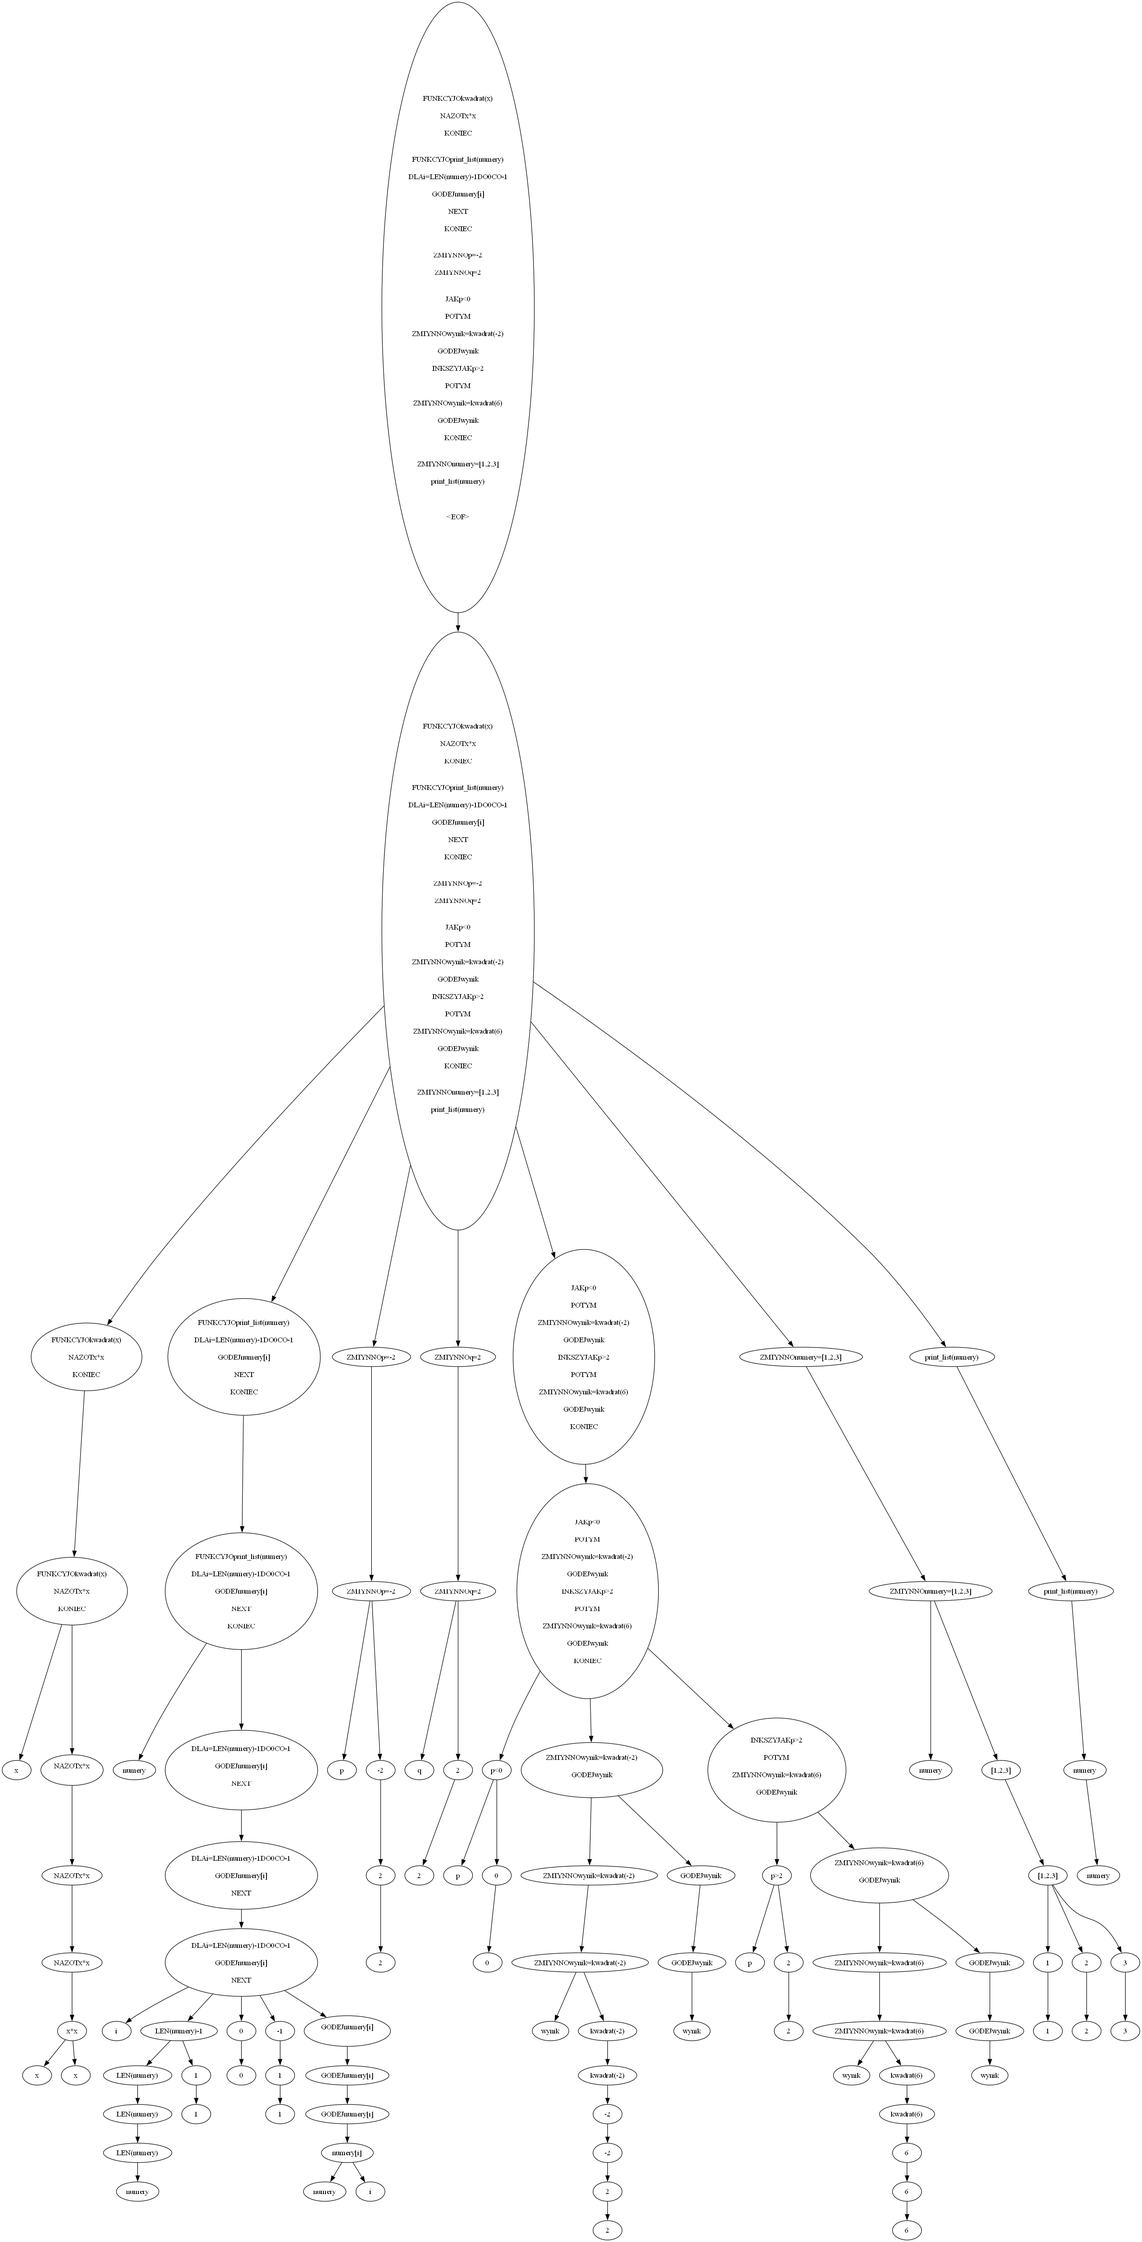
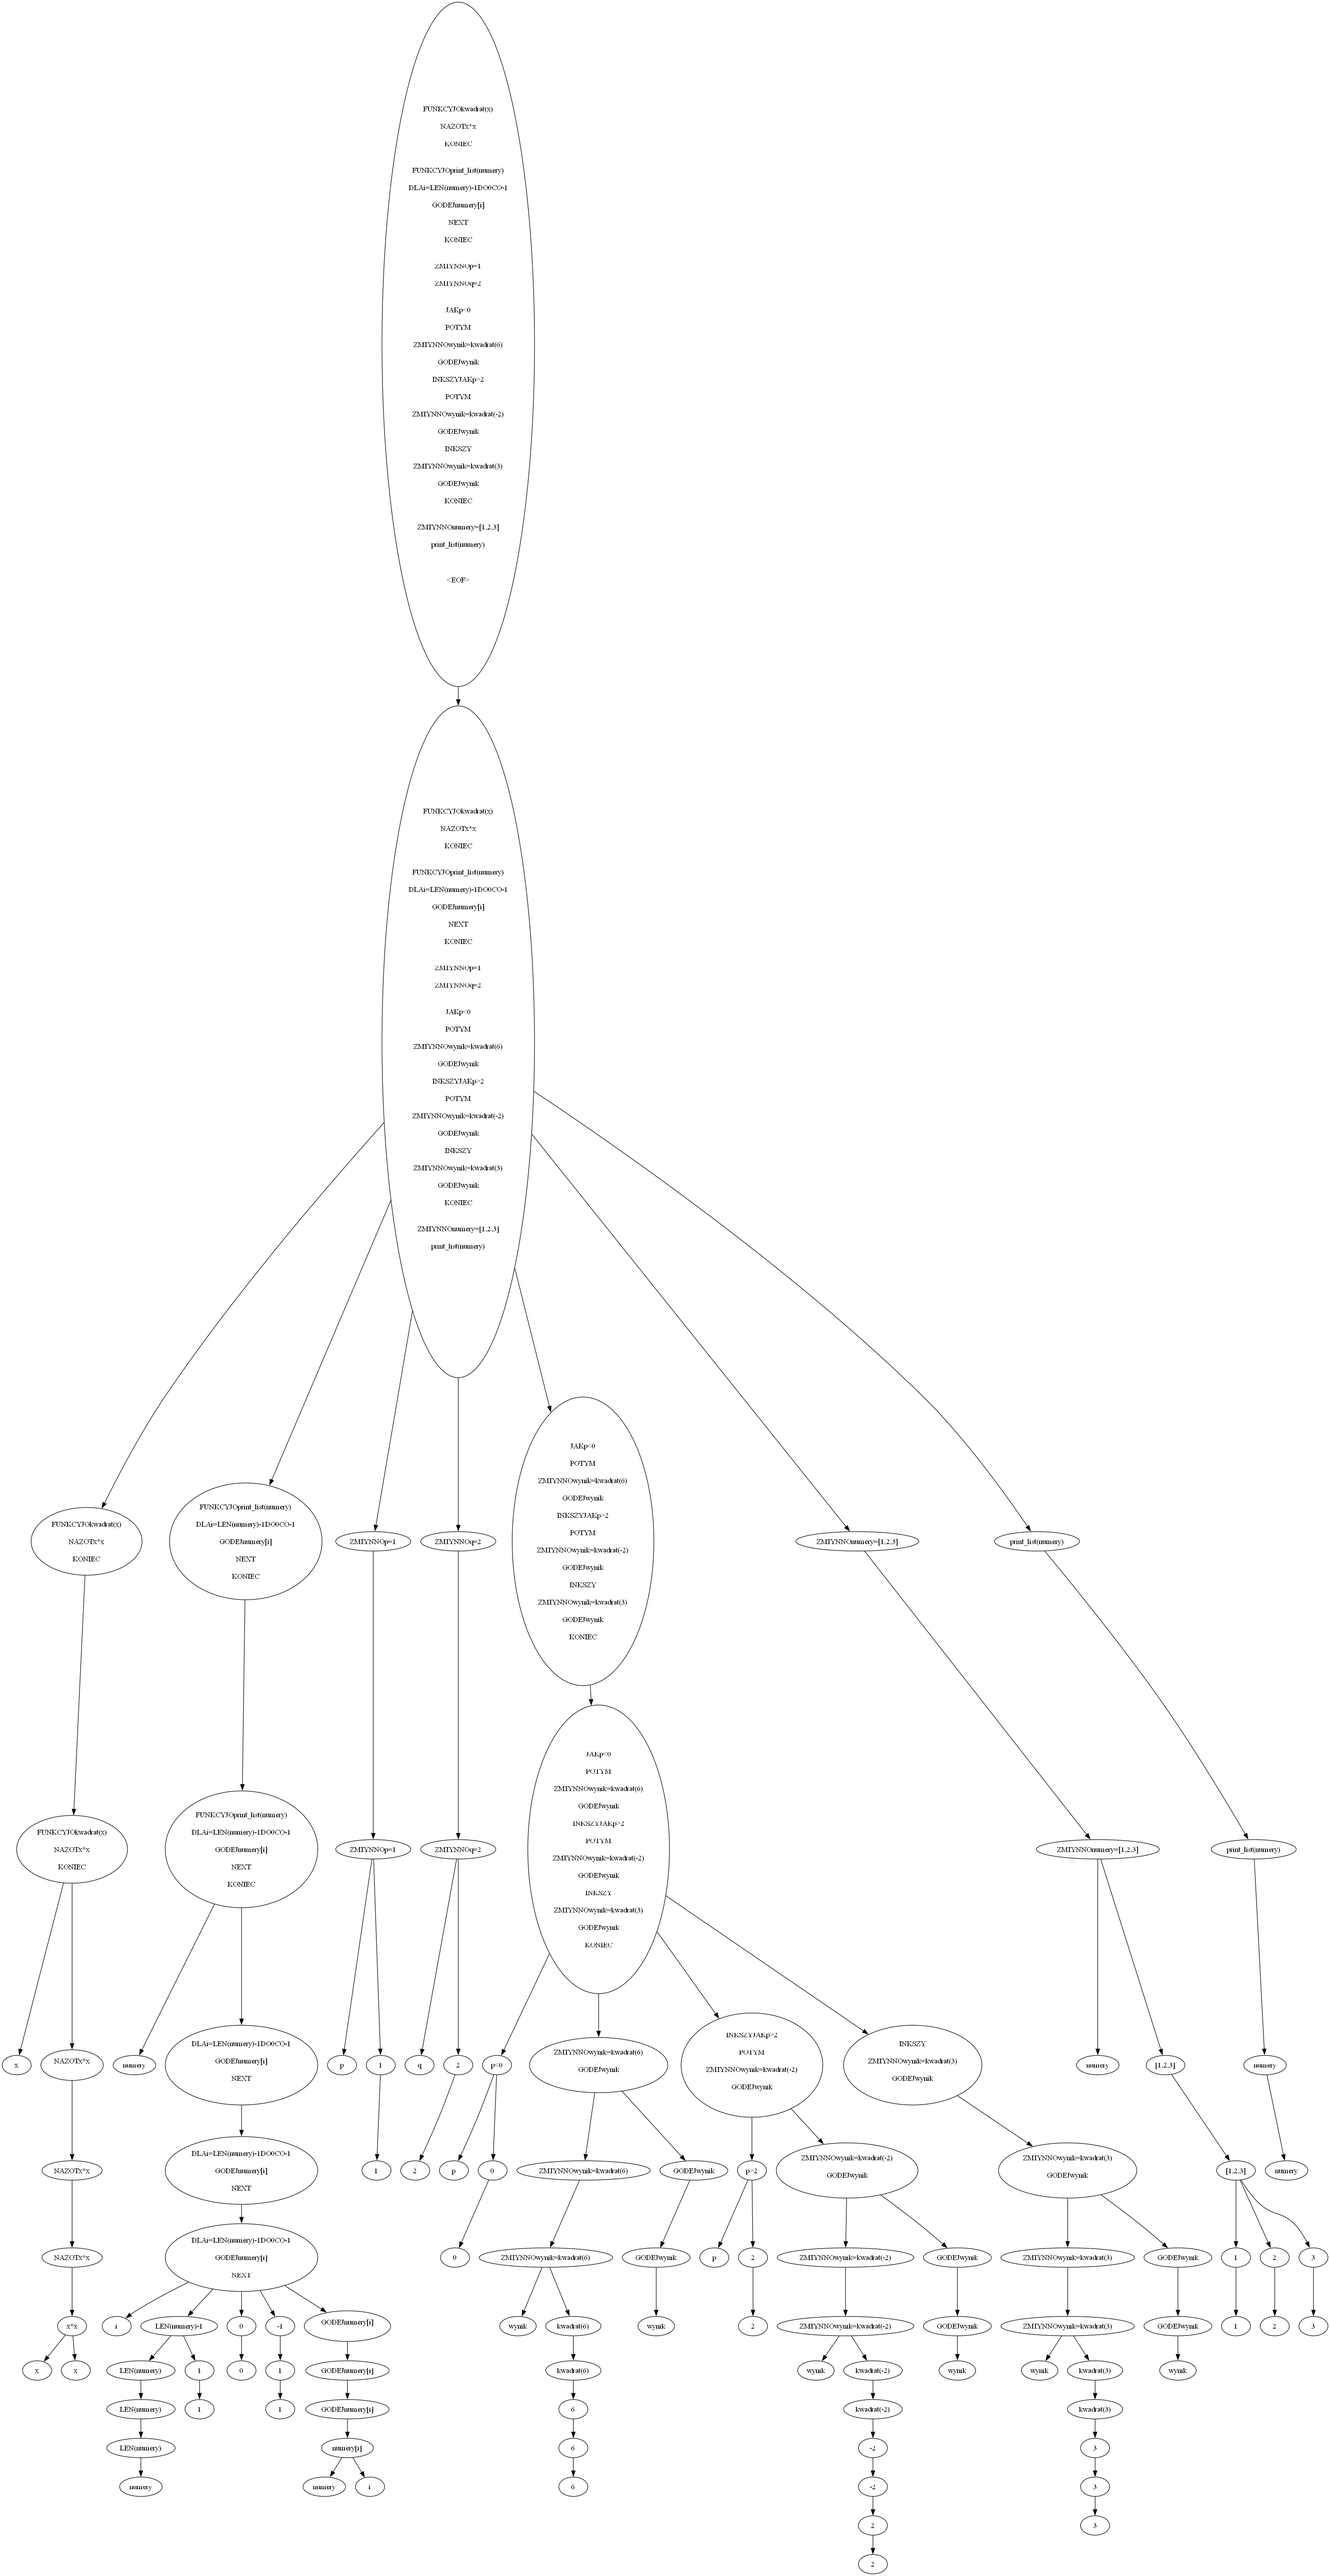
corrected relational -> rel. Now working fine

diff --git a/gen/Szprajch/SzprajchParser.py b/gen/Szprajch/SzprajchParser.py
@@ -43,7 +43,7 @@ def serializedATN():
         10,28,12,28,362,9,28,1,29,1,29,1,29,1,29,1,29,1,30,1,30,1,30,1,30,
         1,30,1,31,1,31,1,31,1,31,1,31,1,31,0,1,44,32,0,2,4,6,8,10,12,14,
         16,18,20,22,24,26,28,30,32,34,36,38,40,42,44,46,48,50,52,54,56,58,
-        60,62,0,3,2,0,1,2,6,6,1,0,3,4,1,0,7,12,418,0,64,1,0,0,0,2,77,1,0,
+        60,62,0,3,1,0,7,12,2,0,1,2,6,6,1,0,3,4,418,0,64,1,0,0,0,2,77,1,0,
         0,0,4,90,1,0,0,0,6,94,1,0,0,0,8,100,1,0,0,0,10,102,1,0,0,0,12,105,
         1,0,0,0,14,109,1,0,0,0,16,135,1,0,0,0,18,152,1,0,0,0,20,160,1,0,
         0,0,22,178,1,0,0,0,24,188,1,0,0,0,26,204,1,0,0,0,28,206,1,0,0,0,
@@ -2748,7 +2748,7 @@ class SzprajchParser ( Parser ):
                     self._errHandler.sync(self)
                     la_ = self._interp.adaptivePredict(self._input,27,self._ctx)
                     if la_ == 1:
-                        localctx = SzprajchParser.MulDivExprContext(self, SzprajchParser.ExpressionContext(self, _parentctx, _parentState))
+                        localctx = SzprajchParser.RelExprContext(self, SzprajchParser.ExpressionContext(self, _parentctx, _parentState))
                         self.pushNewRecursionContext(localctx, _startState, self.RULE_expression)
                         self.state = 298
                         if not self.precpred(self._ctx, 9):
@@ -2757,7 +2757,7 @@ class SzprajchParser ( Parser ):
                         self.state = 299
                         localctx.op = self._input.LT(1)
                         _la = self._input.LA(1)
-                        if not((((_la) & ~0x3f) == 0 and ((1 << _la) & 70) != 0)):
+                        if not((((_la) & ~0x3f) == 0 and ((1 << _la) & 8064) != 0)):
                             localctx.op = self._errHandler.recoverInline(self)
                         else:
                             self._errHandler.reportMatch(self)
@@ -2767,7 +2767,7 @@ class SzprajchParser ( Parser ):
                         pass
 
                     elif la_ == 2:
-                        localctx = SzprajchParser.AddSubExprContext(self, SzprajchParser.ExpressionContext(self, _parentctx, _parentState))
+                        localctx = SzprajchParser.MulDivExprContext(self, SzprajchParser.ExpressionContext(self, _parentctx, _parentState))
                         self.pushNewRecursionContext(localctx, _startState, self.RULE_expression)
                         self.state = 301
                         if not self.precpred(self._ctx, 8):
@@ -2776,7 +2776,7 @@ class SzprajchParser ( Parser ):
                         self.state = 302
                         localctx.op = self._input.LT(1)
                         _la = self._input.LA(1)
-                        if not(_la==3 or _la==4):
+                        if not((((_la) & ~0x3f) == 0 and ((1 << _la) & 70) != 0)):
                             localctx.op = self._errHandler.recoverInline(self)
                         else:
                             self._errHandler.reportMatch(self)
@@ -2786,7 +2786,7 @@ class SzprajchParser ( Parser ):
                         pass
 
                     elif la_ == 3:
-                        localctx = SzprajchParser.RelExprContext(self, SzprajchParser.ExpressionContext(self, _parentctx, _parentState))
+                        localctx = SzprajchParser.AddSubExprContext(self, SzprajchParser.ExpressionContext(self, _parentctx, _parentState))
                         self.pushNewRecursionContext(localctx, _startState, self.RULE_expression)
                         self.state = 304
                         if not self.precpred(self._ctx, 7):
@@ -2795,7 +2795,7 @@ class SzprajchParser ( Parser ):
                         self.state = 305
                         localctx.op = self._input.LT(1)
                         _la = self._input.LA(1)
-                        if not((((_la) & ~0x3f) == 0 and ((1 << _la) & 8064) != 0)):
+                        if not(_la==3 or _la==4):
                             localctx.op = self._errHandler.recoverInline(self)
                         else:
                             self._errHandler.reportMatch(self)

diff --git a/SzprajchExecutor.py b/SzprajchExecutor.py
@@ -55,7 +55,7 @@ class SzprajchExecutor(SzprajchVisitor):
         else:
             raise ValueError(f"Nieobsługiwany operator: {operator}")
 
-    def visitRelationalExpr(self, ctx):
+    def visitRelExpr(self, ctx):
         left = self.visit(ctx.expression(0))
         right = self.visit(ctx.expression(1))
         operator = ctx.getChild(1).getText()
